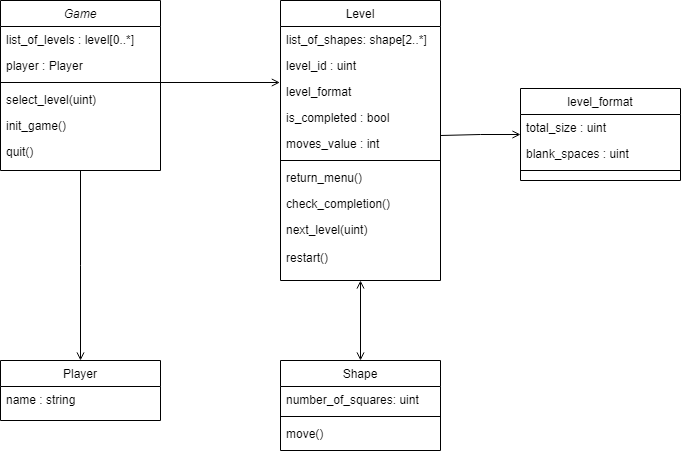
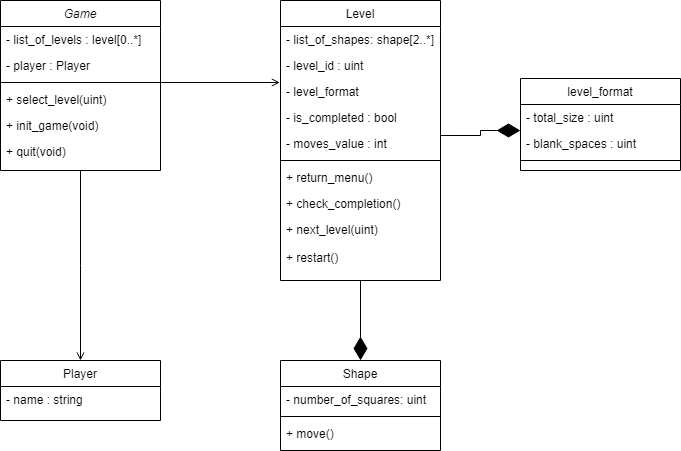
2020_12_15
Arrumei o diagrama de classe, arrumei a descrição Geral do domínio do problema do readme e do analise

diff --git a/analise.md b/analise.md
@@ -1,11 +1,21 @@
 # Análise orientada a objeto
-> [!NOTE]
-> <p>A <strong>análise</strong> orientada a objeto consiste na descrição do problema a ser tratado, duas primeiras etapas da tabela abaixo, a definição de casos de uso e a definição do domínio do problema.</p>
-
 
 ## Descrição Geral do domínio do problema
 
-A descrição geral do domínio do problema do jogo Pentaminó envolve a implementação de um sistema baseado em objetos para representar as entidades principais do jogo, como o Game, Player, Level, Shape, e Level Format. O jogo é dividido em níveis (levels), cada um com um conjunto de peças (shapes) que o jogador deve posicionar corretamente. O domínio abrange funcionalidades como iniciar, reiniciar, e sair do jogo, selecionar níveis, e verificar a conclusão dos desafios.
+O jogo Pentaminó envolve a implementação de um sistema baseado em objetos para representar as entidades principais do jogo, como o Game, Player, Level, Shape, e Level Format. O jogo é dividido em níveis (levels), cada um com um conjunto de peças (shapes) que o jogador deve posicionar corretamente. O domínio abrange funcionalidades como iniciar, reiniciar, e sair do jogo, selecionar níveis, e verificar a conclusão dos desafios.
+
+### O jogo proposto:
+
+* Tabuleiro é uma grade 10 (Largura) x 6 (Altura).
+* 12 Pentaminós.
+* 10 níveis predefinidos.
+* O jogador pode movimentar as peças com o auxilio do mouse.
+* O jogador pode escolher entre jogar desde o nível 1 ou jogar um nível específico.
+* O jogador pode reiniciar o nível a qualquer momento clicando em um botão.
+* O jogador Pode voltar ao menu inicial a qualquer momento.
+* Haverá uma contagem de movimentos feitos pelo jogador.
+
+
 
 ## Diagrama de Casos de Uso
 <div align ="center">
@@ -17,7 +27,7 @@ A descrição geral do domínio do problema do jogo Pentaminó envolve a impleme
 
  Jogar -> O jogador vai para a tela de jogar e o programa inicia a contagem de movimentos.
 
-  Selecionar o level -> o jogador pode selecionar um dos **boards** dos níveis(1 a 10)
+  Selecionar o level -> o jogador pode selecionar um dos **boards** dos níveis(1 a 10).
 
  Reiniciar a partida-> As peças voltam para a posição inicial e a contagem zera. 
 

diff --git a/README.md b/README.md
@@ -6,11 +6,28 @@
 
 ## << Descrição breve do domínio do problema >>
 
-O Pentaminó é um jogo de tabuleiro no qual o objetivo é preencher completamente o espaço disponível com peças geométricas chamadas pentaminós. Cada peça é formada por cinco quadrados conectados de diferentes formas, formando peças distintas. O desafio consiste em posicionar as peças nos diversos tabuleiros sem sobreposições e sem deixar espaços vazios, e a dificuldade aumenta à medida que o nível é concluído.
+O Pentaminó é um jogo de tabuleiro baseado em figuras geométricas chamadas poliminós, que são 
+formadas pela união de quadrados congruentes (iguais em tamanho e forma). No caso do Pentaminó, 
+cada peça é composta por cinco quadrados conectados ortogonalmente, ou seja, lado a lado. 
+O nome "Pentaminó" deriva do grego "πέντε" (pente), que significa cinco.
+O objetivo do jogo é preencher completamente o espaço disponível no tabuleiro com peças 
+geométricas chamadas pentaminós, que possuem diferentes formas. O desafio consiste em 
+posicionar essas peças de maneira que não haja sobreposições nem espaços vazios. 
+A dificuldade aumenta à medida que os níveis são concluídos, tornando o jogo cada vez mais 
+desafiador.
+
+### No jogo clássico de tabuleiro:
+
+* O tabuleiro é uma grade de 8x8.
+* Dois ou mais jogadores se alternam colocando as peças no tabuleiro.
+* Nenhuma peça pode se sobrepor a outra.
+* Cada peça só pode ser usada uma vez.
+* O objetivo é ser o último a conseguir posicionar um pentaminó no tabuleiro sem deixar lacunas.
+
 
 > Repositório destinado para o desenvolvimento do projeto final da discipliana PRG22107 - Programação orienta a objeto. 
 > 
-> Aluno: Eduardo Pereira, Conrado Becker Gressler, Joana Paula Abreu Wasserberg  
+> Aluno: Eduardo Francisco Pereira, Conrado Becker Gressler e Joana Paula Abreu Wasserberg  
 > Professor: Hugo Marcondes
 
 <p align=center><strong>SUMÁRIO</strong></p>
